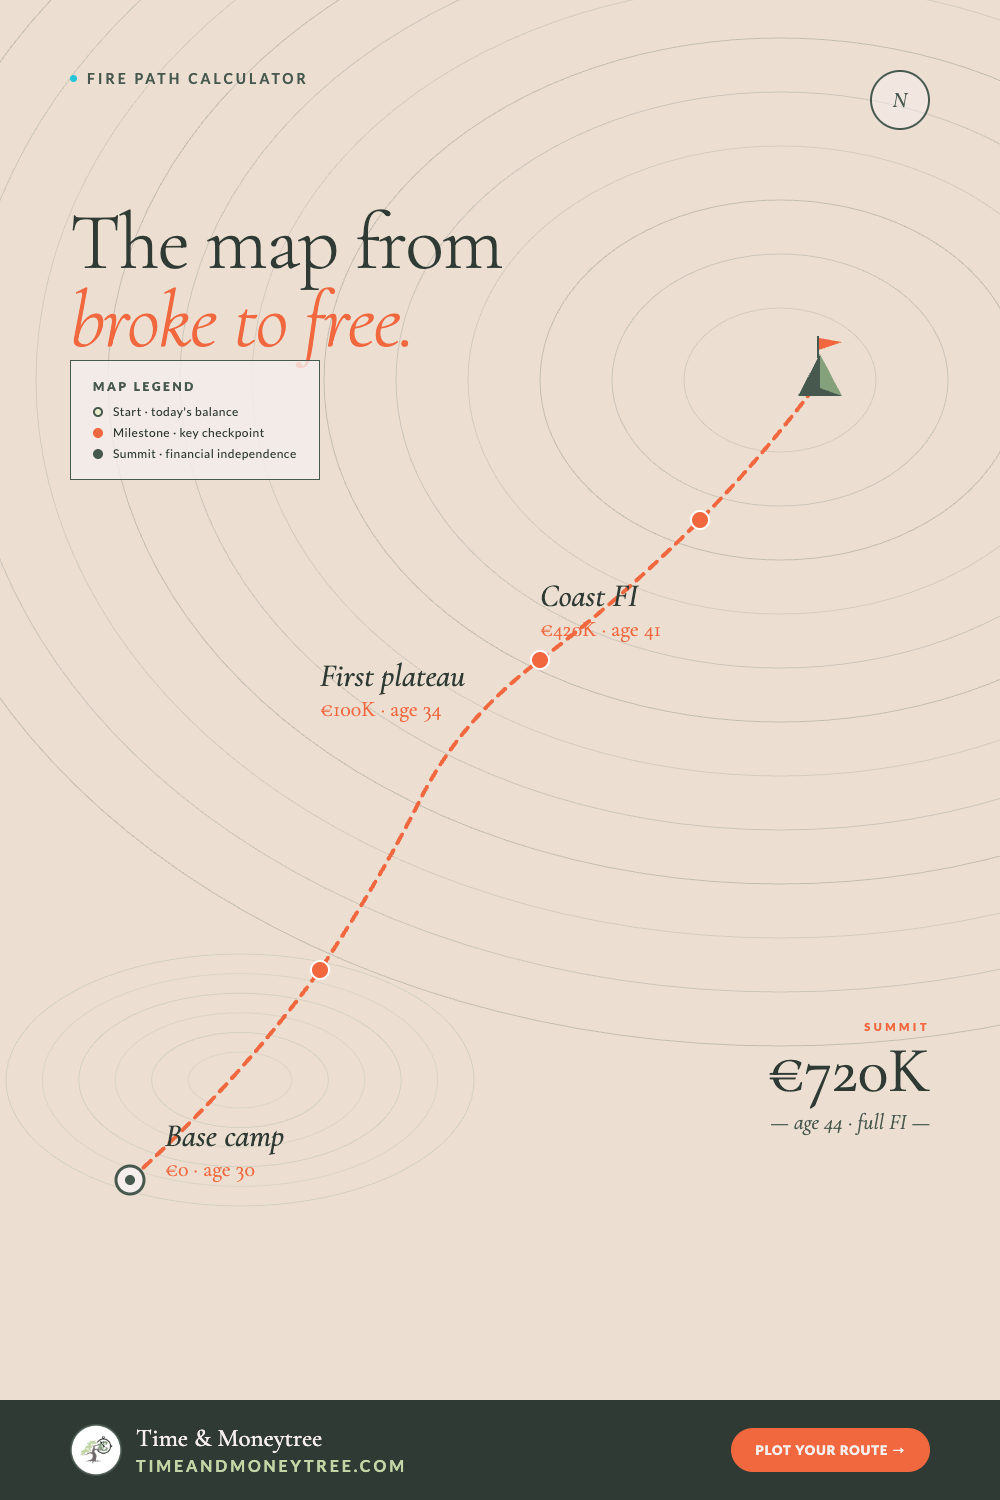
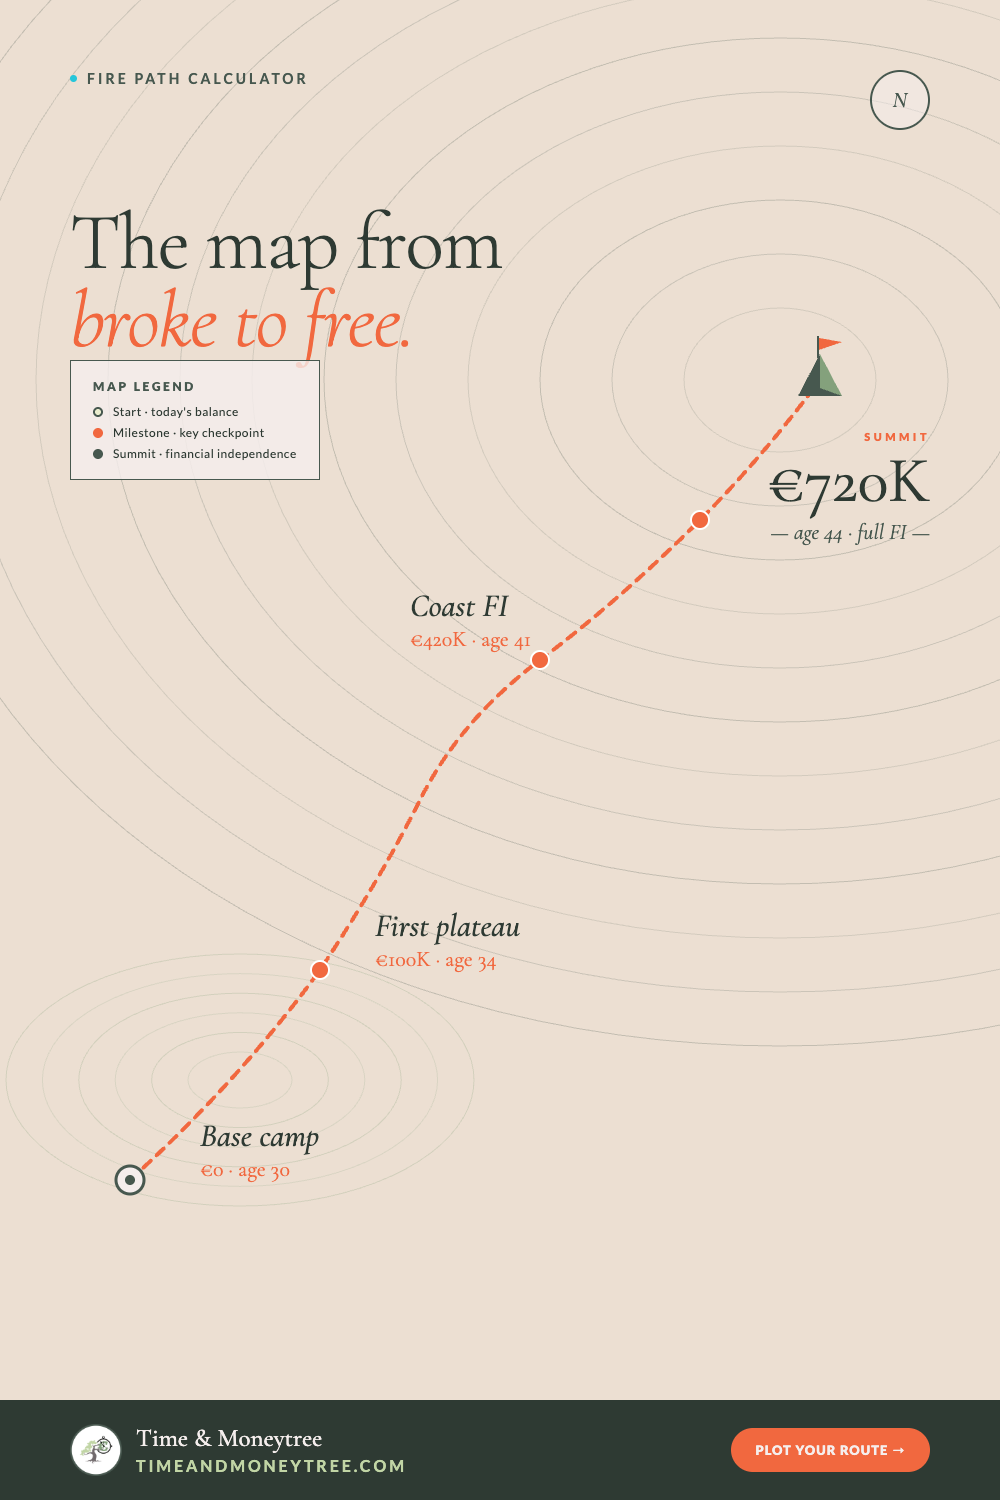
fix: correct waypoint and destination positions on pin-31 topographic map
- First plateau: top:660→910px (now near its SVG dot at cy=970)
- Coast FI: left:560→410px (moved left of route dot)
- Base camp: left:165→200px (nudged right)
- Destination/Summit box: CSS top:1020→430px (near summit flag at cy=380)
- Regenerate PNG

diff --git a/studio/templates/pin-31-topographic-map.html b/studio/templates/pin-31-topographic-map.html
@@ -73,15 +73,15 @@
       <div class="lr"><span class="dot end"></span><span>Summit · financial independence</span></div>
     </div>
 
-    <div class="waypoint" style="left:165px;top:1120px">
+    <div class="waypoint" style="left:200px;top:1120px">
       <div class="wp-name">Base camp</div>
       <div class="wp-val">€0 · age 30</div>
     </div>
-    <div class="waypoint" style="left:320px;top:660px">
+    <div class="waypoint" style="left:375px;top:910px">
       <div class="wp-name">First plateau</div>
       <div class="wp-val">€100K · age 34</div>
     </div>
-    <div class="waypoint" style="left:540px;top:580px">
+    <div class="waypoint" style="left:410px;top:590px">
       <div class="wp-name">Coast FI</div>
       <div class="wp-val">€420K · age 41</div>
     </div>

diff --git a/studio/templates/pins-29-32.css b/studio/templates/pins-29-32.css
@@ -387,7 +387,7 @@
 .pin-31 .destination {
   position: absolute;
   right: 70px;
-  top: 1020px;
+  top: 430px;
   text-align: right;
   z-index: 3;
 }